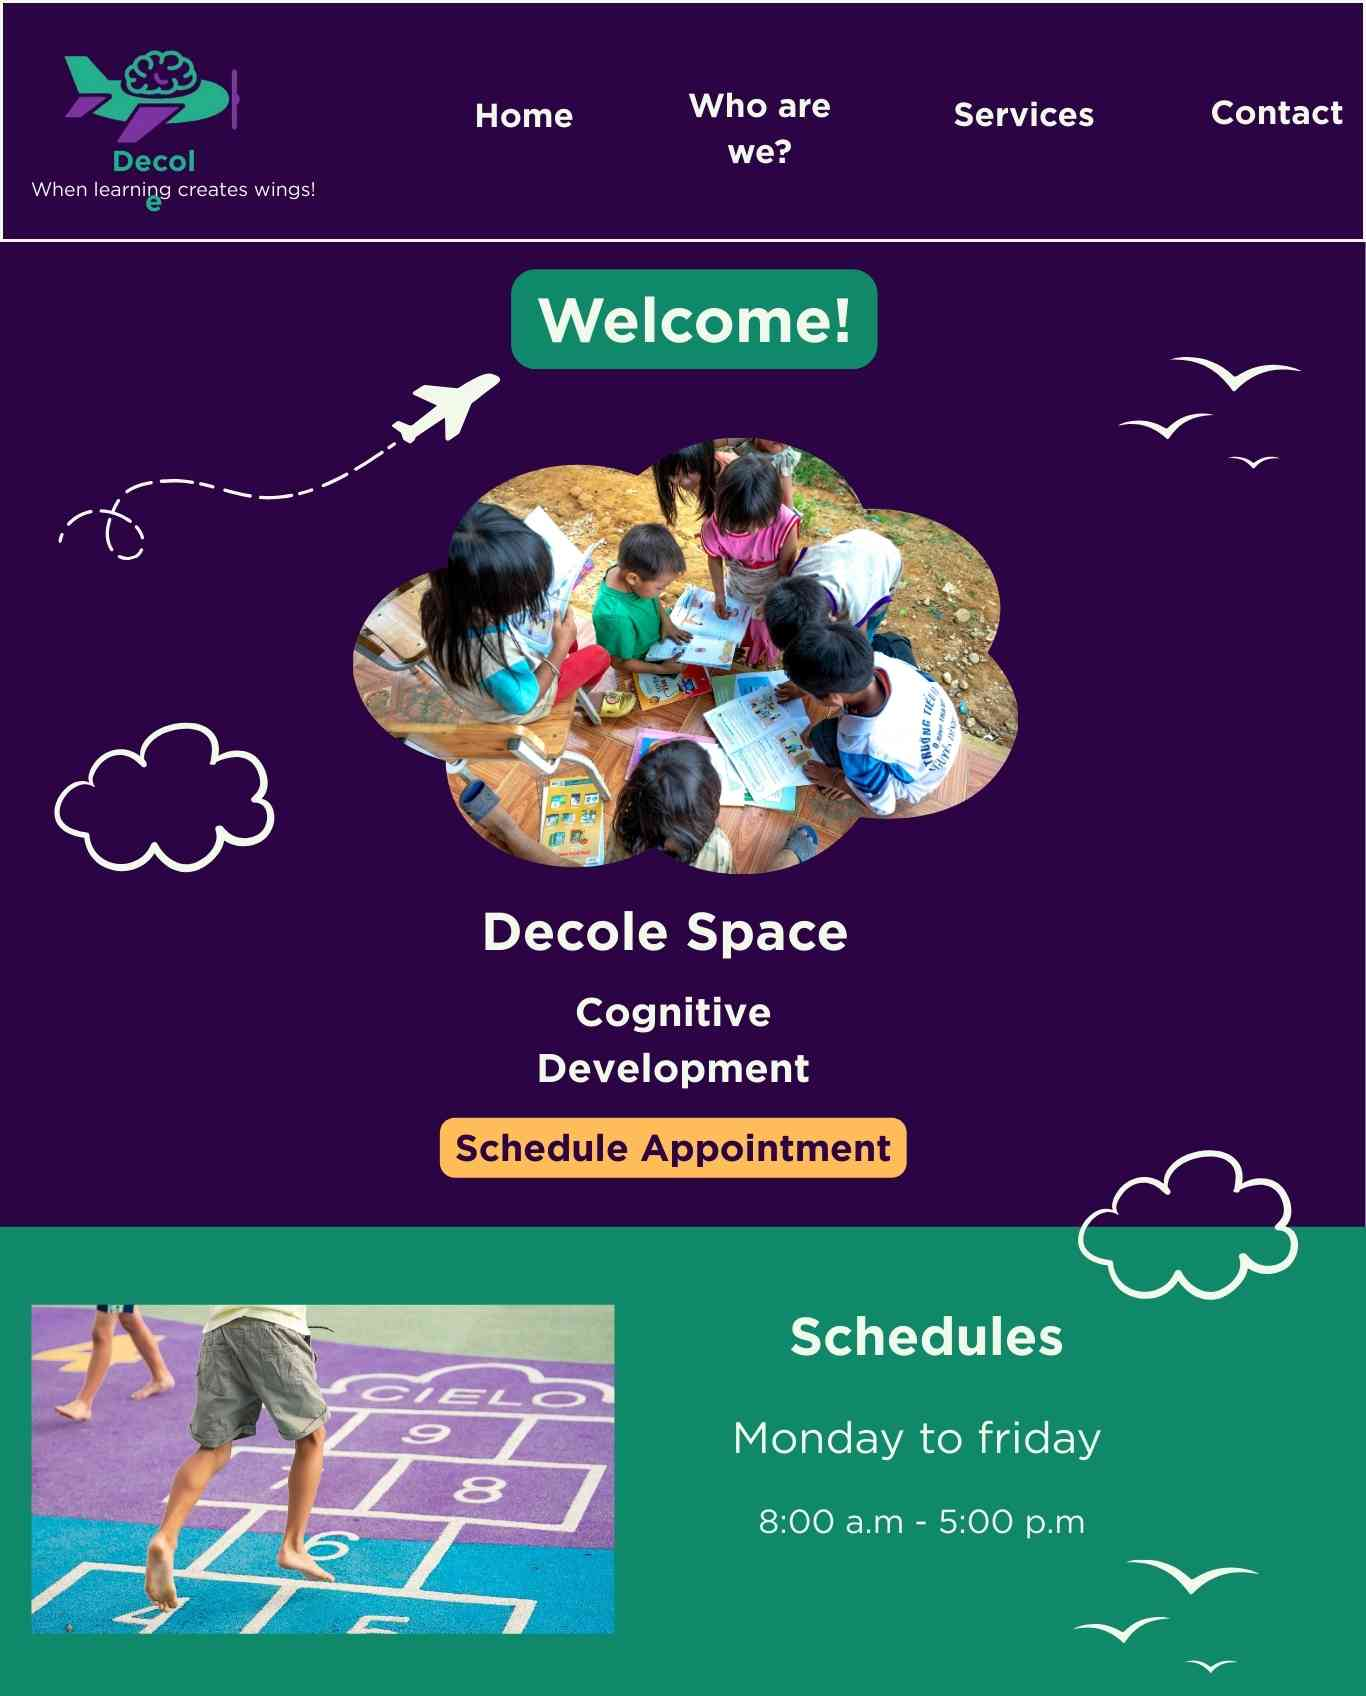
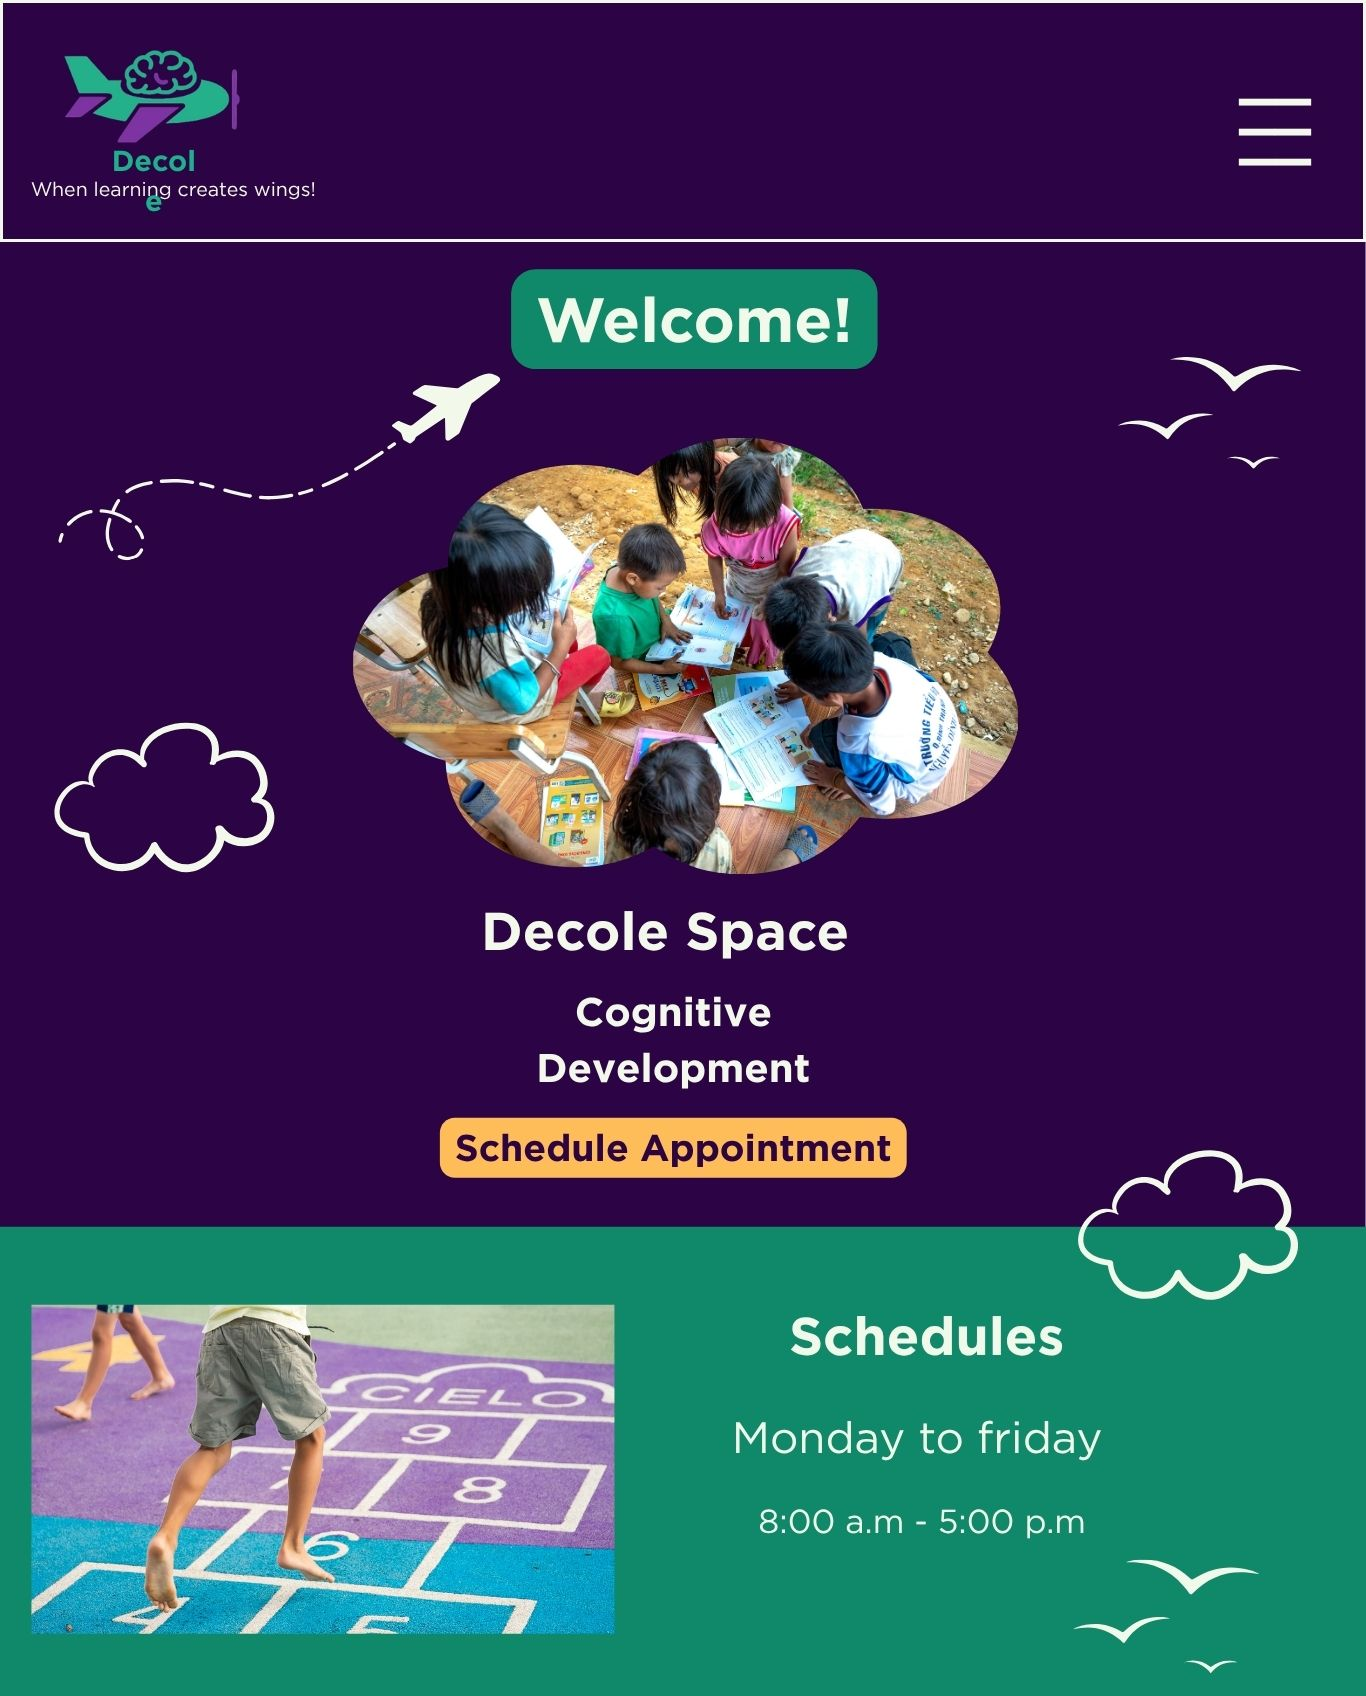
initial commit

diff --git a/project/project_siteplan.html b/project/project_siteplan.html
@@ -12,22 +12,22 @@
 
     <style>
         /* =====================================================
-           Esquema de Cores Definido
+            Defined Color Schema
            ===================================================== */
         :root {
             --primary-color: #2c0344;
-            /* Títulos e Cabeçalho */
+            /* Titles and Header */
             --secondary-color: #10896b;
-            /* Navegação e Destaques */
+            /* Navigation and Highlights */
             --accent-color: #f2f9ea;
-            /* Fundo de seções */
+            /* Section Background */
             --cta-bg-color: #ffbd59;
-            /* Botão de Chamada para Ação */
+            /* Call to Action Button */
             --cta-text-color: #ffffff;
         }
 
         /* =====================================================
-           Estilos do Documento de Planejamento
+            Planning Document Styles
            ===================================================== */
         body {
             font-family: 'Roboto', sans-serif;
@@ -79,7 +79,7 @@
             display: block;
         }
 
-        /* Caixa de Exemplo de Tipografia */
+        /* Typography Showcase Box */
         .typography-showcase {
             background-color: var(--accent-color);
             padding: 1.5rem;
@@ -123,68 +123,87 @@
             <h2>1. Site Name</h2>
             <p><strong>Name:</strong> Decole Psychopedagogical Clinic</p>
             <p>
-                O nome "Decole" simboliza o desenvolvimento, o crescimento e a autonomia no processo de aprendizagem,
-                remetendo à ideia de ganhar asas para o conhecimento.
+                The name "Decole" (Take off) symbolizes development, growth, and autonomy in the learning process,
+                referring to the idea of gaining wings for knowledge.
             </p>
         </section>
 
         <section>
             <h2>2. Site Purpose</h2>
             <p>
-                O objetivo principal do site é apresentar a Clínica Psicopedagógica Decole, seus serviços especializados
-                e sua abordagem humanizada, facilitando o contato inicial e o agendamento de consultas.
+                The main objective of the website is to present Decole Psychopedagogical Clinic, its specialized
+                services,
+                and its humanized approach, facilitating initial contact and appointment scheduling.
             </p>
         </section>
 
         <section>
             <h2>3. Scenarios</h2>
-            <p>Perguntas comuns que o site deve responder:</p>
+            <p>Common questions the website should answer:</p>
             <ul>
-                <li>"Como a psicopedagogia pode ajudar meu filho com dificuldades na escola?"</li>
-                <li>"Eu sou adulto e sempre tive dificuldade de concentração; posso receber suporte?"</li>
-                <li>"Quais são os horários de atendimento da clínica?"</li>
+                <li>"How can psychopedagogy help my child with difficulties at school?"</li>
+                <li>"I am an adult and have always had difficulty concentrating; can I receive support?"</li>
+                <li>"What are the clinic's service hours?"</li>
             </ul>
         </section>
 
         <section>
             <h2>4. Color Schema</h2>
             <ul>
-                <li><strong>Primary (#2c0344):</strong> Utilizada para títulos principais e o cabeçalho.</li>
-                <li><strong>Secondary (#10896b):</strong> Utilizada para elementos de navegação e destaques visuais.
+                <li><strong>Primary (#2c0344):</strong> Used for main headings and the header.</li>
+                <li><strong>Secondary (#10896b):</strong> Used for navigation elements and visual highlights.
                 </li>
-                <li><strong>Accent (#f2f9ea):</strong> Utilizada como cor de fundo para suavizar a leitura.</li>
+                <li><strong>Accent (#f2f9ea):</strong> Used as a background color to soften reading.</li>
             </ul>
         </section>
 
         <section>
             <h2>5. Typography</h2>
             <p>
-                A família de fontes escolhida é a <strong>Roboto</strong>, por sua excelente legibilidade em telas
-                digitais e ar moderno.
+                The chosen font family is <strong>Roboto</strong>, due to its excellent readability on digital
+                screens and modern feel.
             </p>
 
             <div class="typography-showcase">
                 <p class="sample-h1">Heading 1 - Roboto Bold (32px)</p>
                 <p class="sample-h2">Heading 2 - Roboto Bold (24px)</p>
                 <p class="sample-body">
-                    Body Text - Roboto Regular (16px). Este é um exemplo de como os parágrafos e o conteúdo
-                    geral serão exibidos no site para garantir conforto visual e profissionalismo.
+                    Body Text - Roboto Regular (16px). This is an example of how paragraphs and general content
+                    will be displayed on the site to ensure visual comfort and professionalism.
                 </p>
             </div>
         </section>
 
         <section>
             <h2>6. Wireframes</h2>
-            <p>Esboços estruturais da página inicial (Home Page):</p>
+            <p>Structural sketches of the Home Page:</p>
 
             <h3>Mobile View</h3>
-            <img src="images/home_mobile.jpg" alt="Esboço visual para dispositivos móveis">
+            <img src="images/home_mobile.jpg" alt="Visual sketch for mobile devices">
 
             <h3>Desktop View</h3>
-            <img src="images/home_desktop.jpg" alt="Esboço visual para desktop">
+            <img src="images/home_desktop.jpg" alt="Visual sketch for desktop">
 
-            <p><em>Nota: Os wireframes incluem cabeçalho com logo, seção hero com botão de agendamento (CTA) e blocos
-                    informativos.</em></p>
+            <p><em>Note: Wireframes include a header with a logo, a hero section with a call-to-action (CTA) button, and
+                    informative blocks.</em></p>
+        </section>
+
+        <section>
+            <h2>7. Technical Implementation</h2>
+            <p>The following techniques and practices will be applied to this project to ensure a robust,
+                high-performance, and modern web application:</p>
+            <ul>
+                <li><strong>Structure & Metadata:</strong> CSS Normalization for cross-browser consistency, custom
+                    Favicon, and Social Media Meta Tags (Open Graph).</li>
+                <li><strong>Development Architecture:</strong> Programming with ES6 Modules for clean and maintainable
+                    code.</li>
+                <li><strong>Data & Connectivity:</strong> Utilizing JSON (JavaScript Object Notation) for data exchange
+                    and the Fetch API combined with <code>async/await</code> for asynchronous requests.</li>
+                <li><strong>User Interface (UI):</strong> Implementation of native HTML Modals for focused interactions
+                    and CSS Animations & Transitions for smooth visual feedback.</li>
+                <li><strong>User Experience (UX):</strong> Advanced HTML Forms for data validation and a focus on Page
+                    Performance optimization.</li>
+            </ul>
         </section>
 
     </main>
